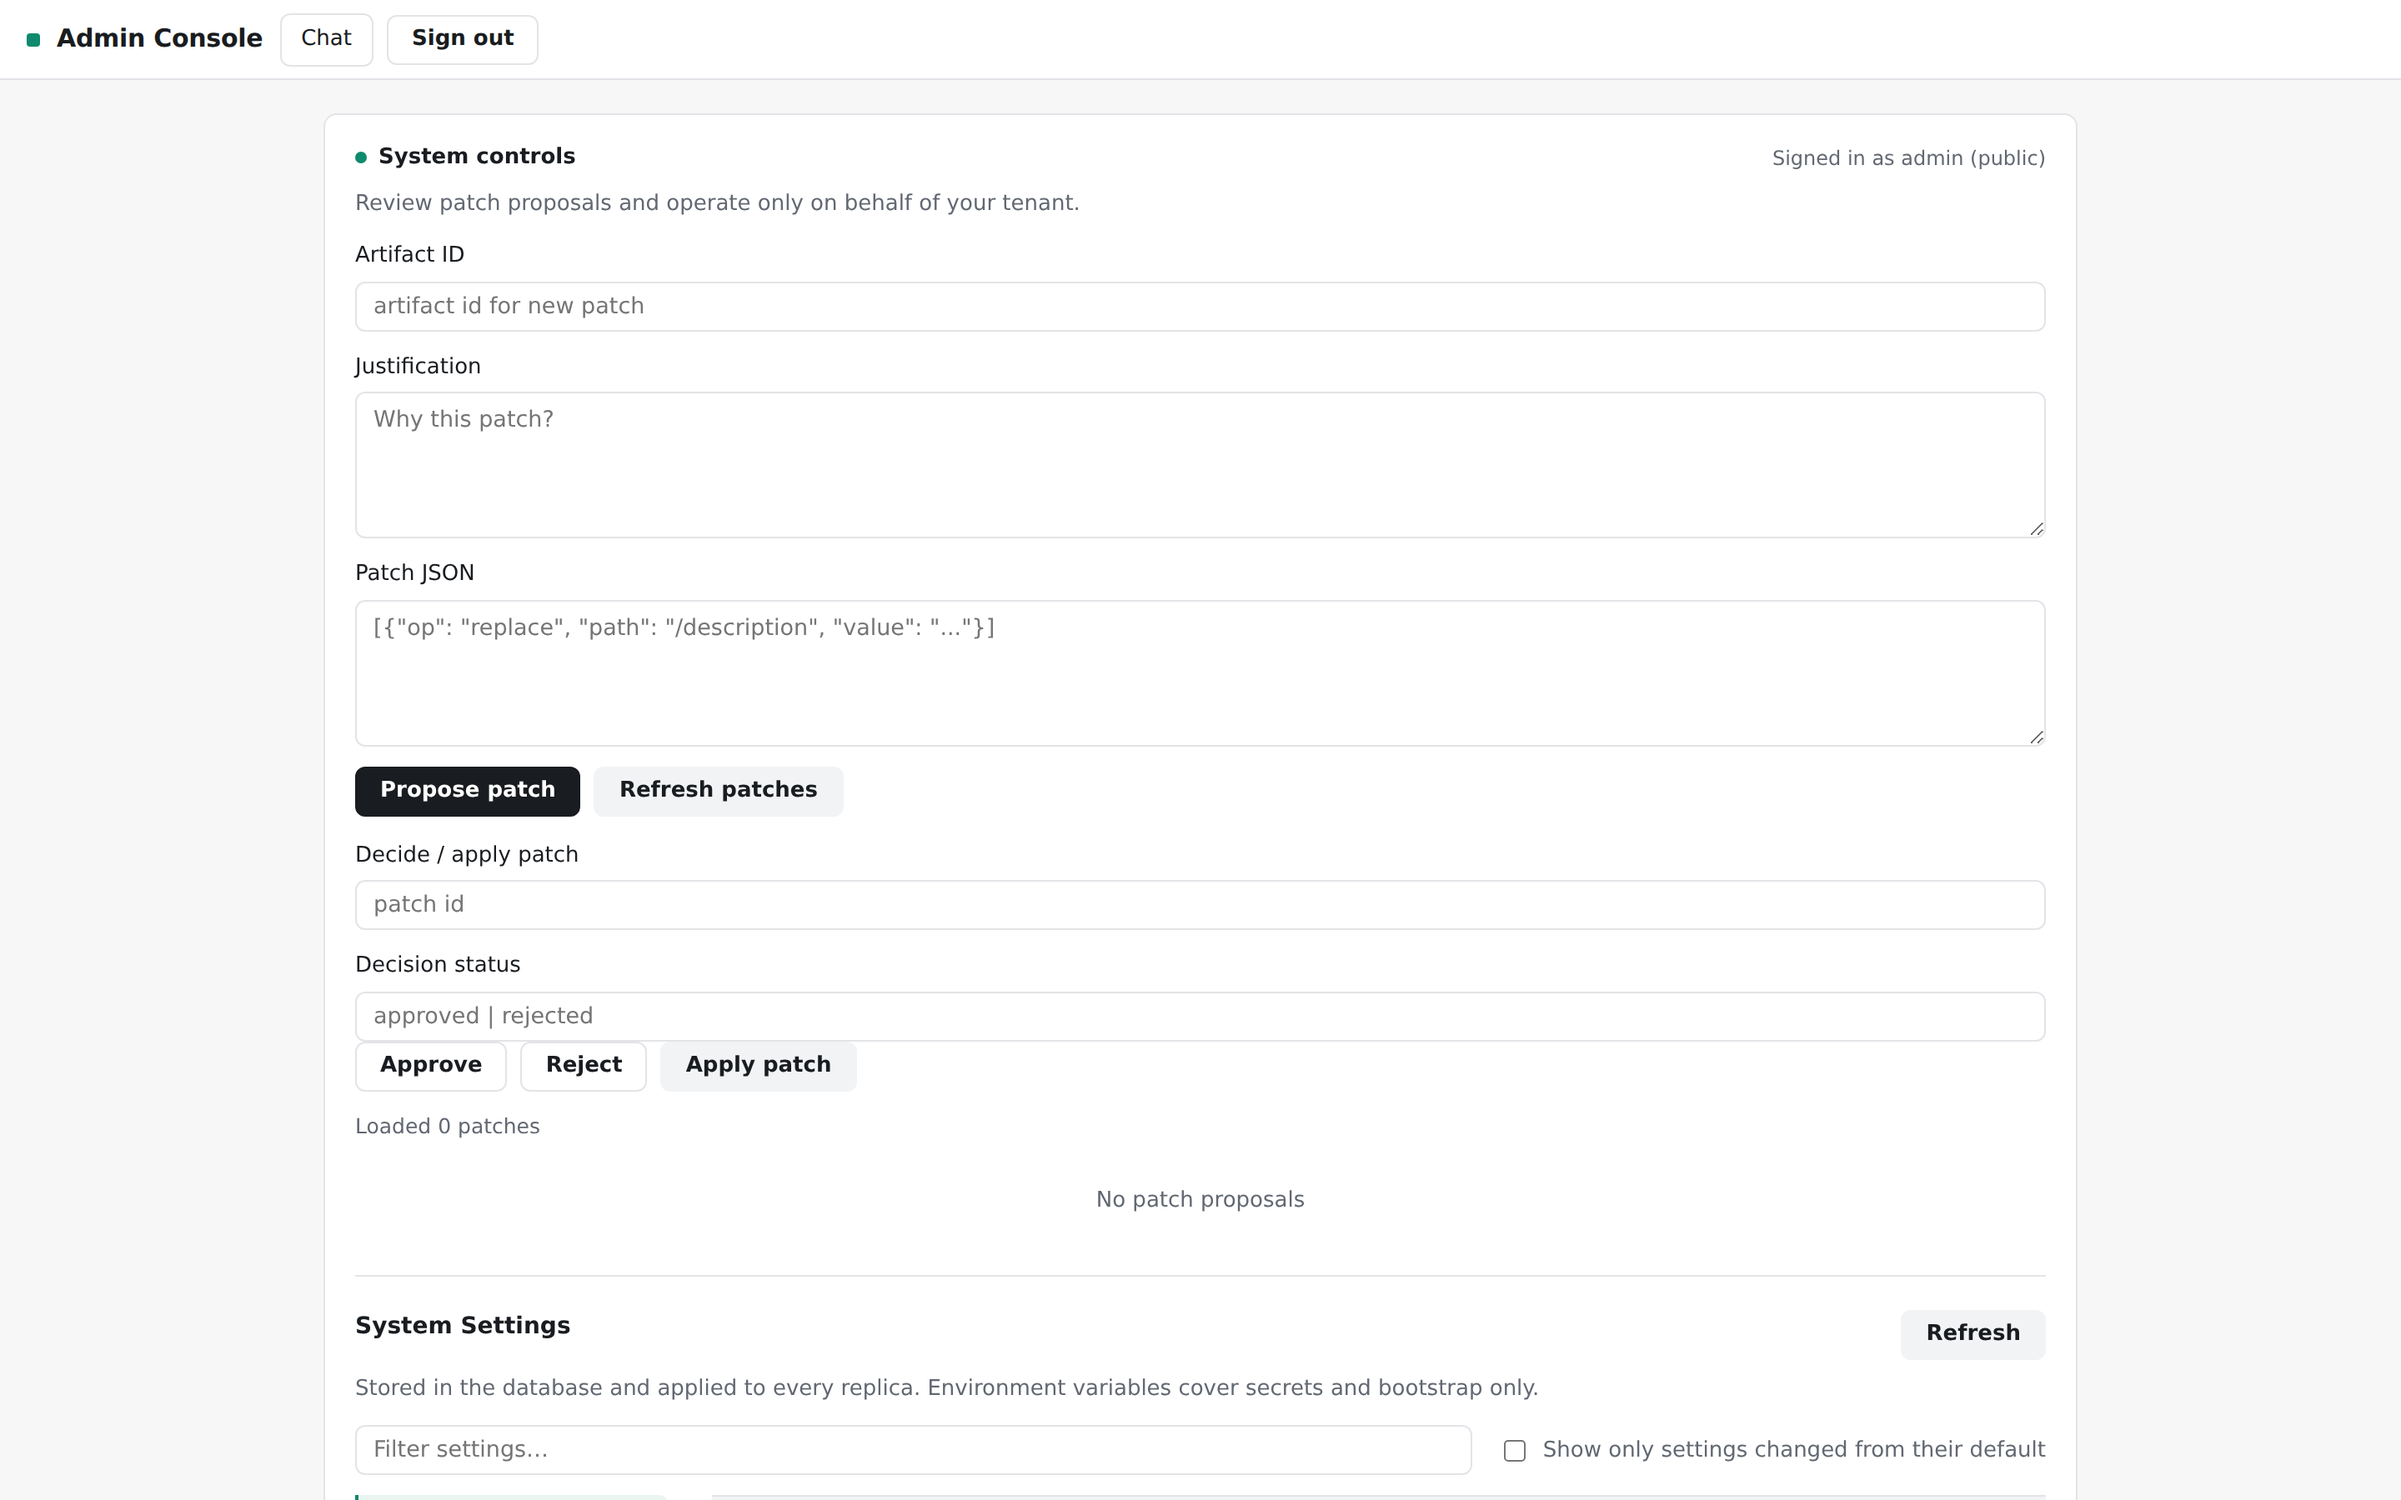
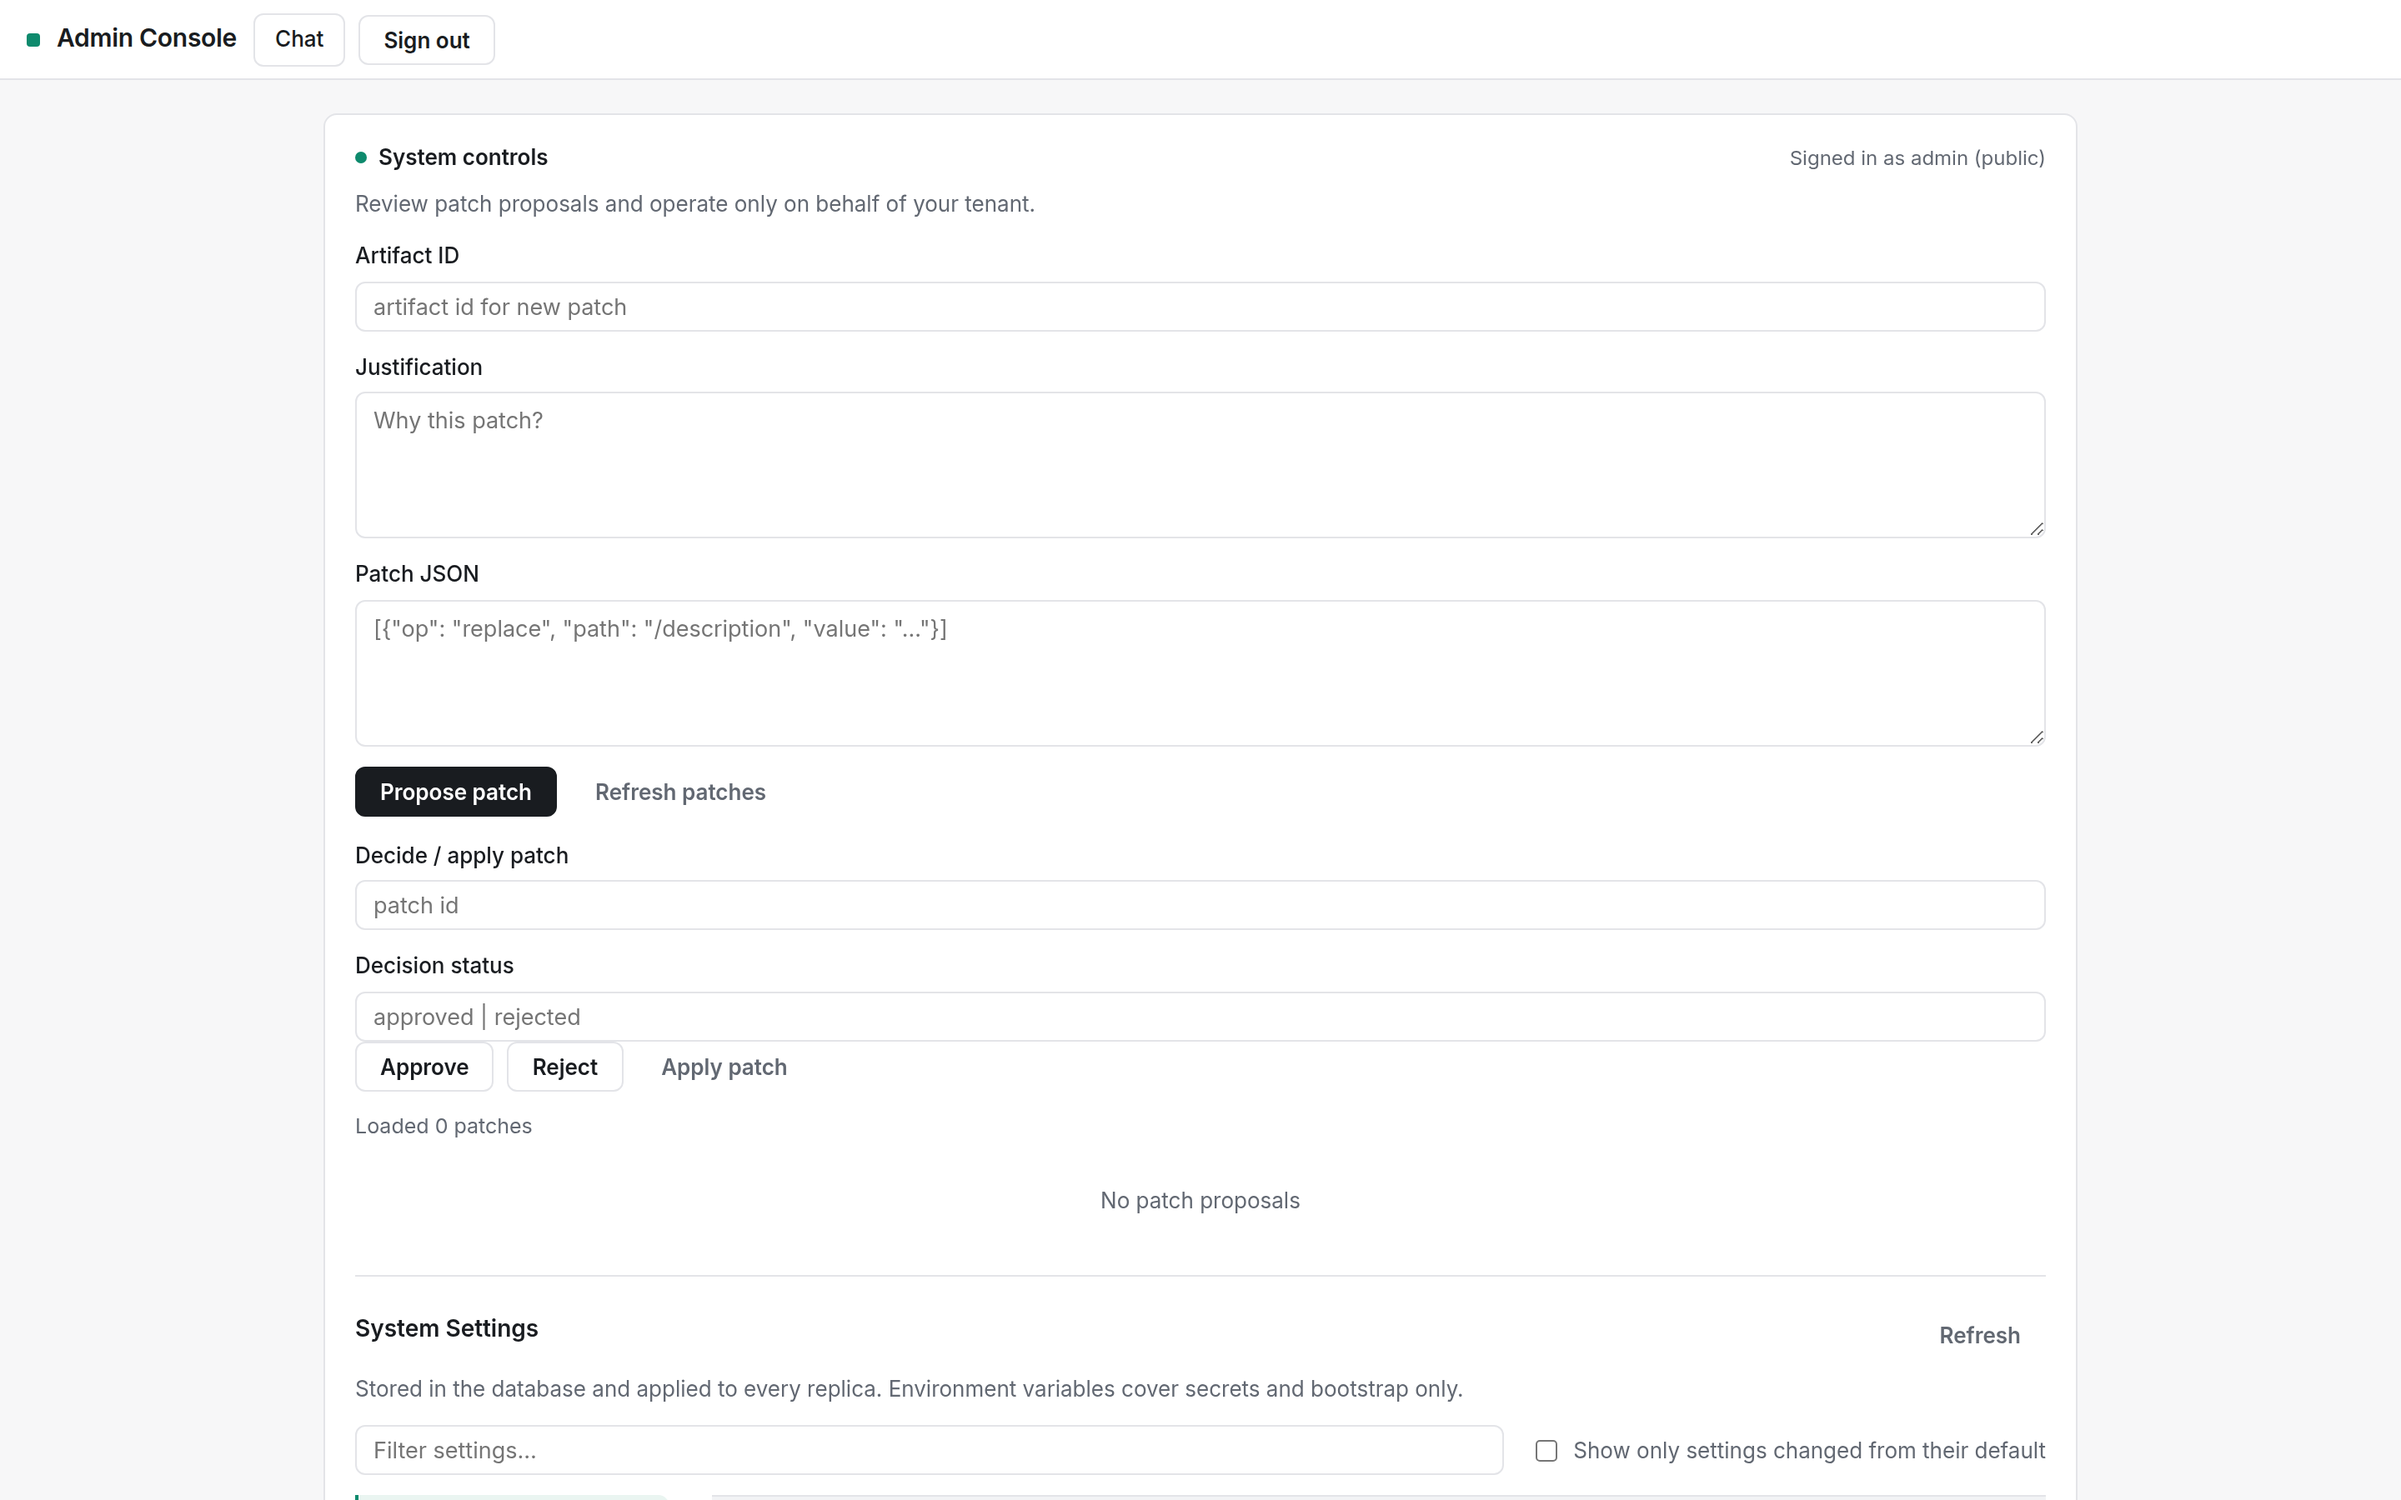
Recapture every screenshot, now that the interface changed underneath them
All ten, live against gemini-3.7-flash, from this branch rather than from
`main` - the images and the code that produces them land together.

All ten changed, which is what shipping a typeface does. Inter and JetBrains
Mono render for the first time rather than being asked for and refused, so
every screen is redrawn even where nothing else moved.

What else is visible: Contexts, Artifacts and Tools carry titled bands where
they had dividers and headings; a schema's flat fields are label-and-value
rows and only genuinely nested content keeps its literal form, with no card
around it; the search fields are on the compact tier; the disclosure
chevrons are one shape.

The chat capture was checked for `[cite:,]` before being committed, as the
last recapture was. It is clean, and #252 and #255 are both in the base now,
so the marker is removed for the reader and the citations behind a merged
one resolve.

Alt text updated for the three surfaces whose structure changed. The other
seven describe what they still show.

diff --git a/README.md b/README.md
@@ -49,7 +49,7 @@ note opens it for editing, and sweep and graph operate across the whole set.
 pane lists them and the workspace shows the selected one. a conversation can
 be pointed at one from the chat screen's menu.
 
-![Contexts screen with a context list in the pane and the selected context's details and sources in the workspace.](docs/screenshots/04-contexts.png)
+![Contexts screen with a context list in the pane. The workspace holds four titled bands: create a context, its details, its sources, and a form for adding another.](docs/screenshots/04-contexts.png)
 
 **files.** uploads are attached to a context, or kept private when no context
 is given. the same screen browses everything already uploaded.
@@ -60,13 +60,13 @@ is given. the same screen browses everything already uploaded.
 the pane filters them by type and visibility; the workspace shows the
 selected artifact and its version history.
 
-![Artifacts screen with type and visibility filters above an artifact list in the pane, and the selected artifact's details and version history in the workspace.](docs/screenshots/06-artifacts.png)
+![Artifacts screen with type and visibility filters above an artifact list in the pane. The workspace holds two titled bands, artifact details and version history, with the schema's flat fields as label-and-value rows.](docs/screenshots/06-artifacts.png)
 
 **tools.** the pane lists the registered tool specifications a workflow can
 call, and the workflows themselves. the workspace shows the selected one and
 invokes it.
 
-![Tools screen with tool and workflow lists in the pane and the selected tool's details and invoke form in the workspace.](docs/screenshots/07-tools.png)
+![Tools screen with tool and workflow lists in the pane. The workspace holds three titled bands: tool details, invoke tool, and workflow details.](docs/screenshots/07-tools.png)
 
 **insights.** preference events are summarized here, so you can see what your
 feedback has shaped and which adapters it reached.
